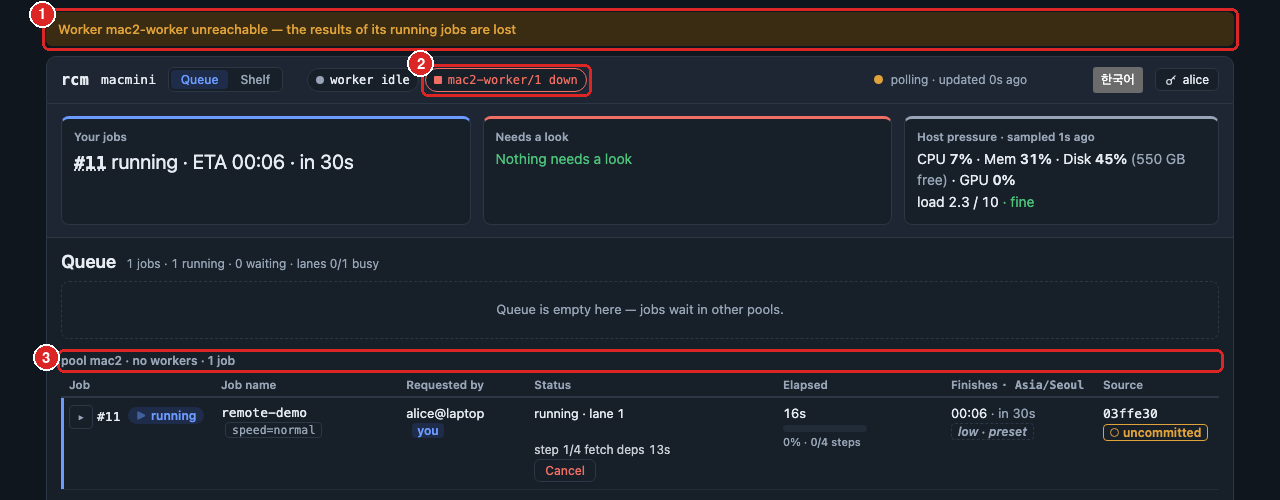
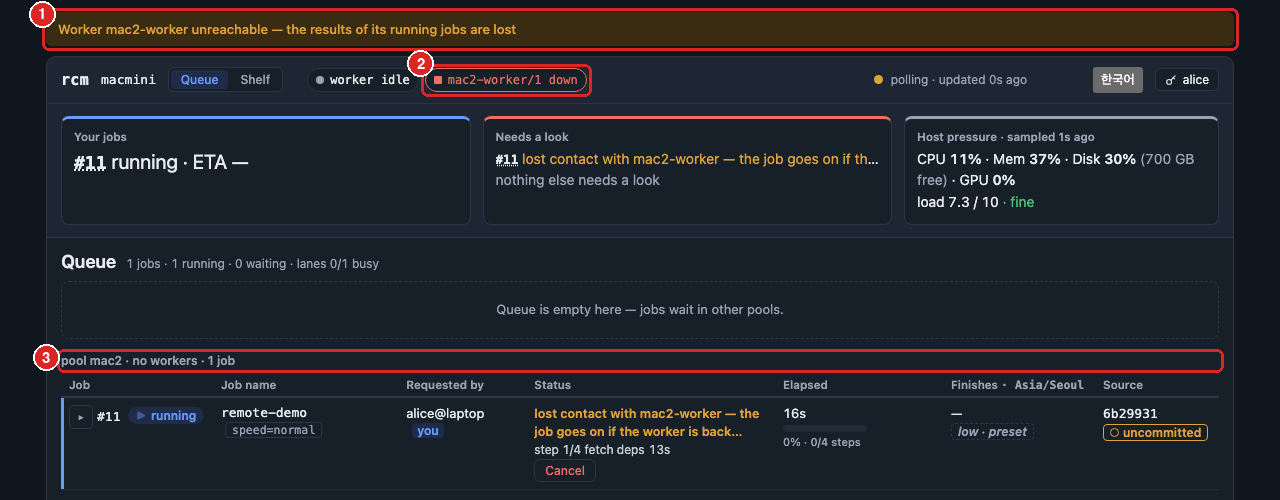
docs(usage): 워커 멈춤 스크린샷을 다시 찍고 예시를 그 장면에 맞춘다
web-worker-down.png 를 tools/screenshots 의 절차대로 다시 만들었다.
capture.py all 이 자기 버릴 서버를 띄우고 down 단계에서 mac2 풀의
워커를 죽인다. 그때 돌던 #11 이 이제 끊김 유예 중이라, 이유 칸에
「lost contact with mac2-worker — …」, 끝 시각에 「—」, 요약의
「Needs a look」 에 같은 문장이 보인다. build.py 가 다른 그림도 다시
그렸지만 이 PR 과 상관없는 변화라 되돌리고 이 장면 하나만 넣었다.
그림에는 고정 호스트명 macmini 와 가짜 사람 alice 만 있고, 경로 · IP ·
실제 이름은 없다(눈으로 확인).

두 사용 안내의 예시는 그 장면의 이름과 번호(mac2-worker, #11)로
바꿨다. 한국어 거울의 한국어 화면 문구는 이름을 뺀 꼬리만 인용한다.

테스트: tests/test_docs_m5tb.py 의 사용 안내 잠금도 같은 이름과 번호를
본다.

diff --git a/tests/test_docs_m5tb.py b/tests/test_docs_m5tb.py
@@ -358,15 +358,16 @@ def test_rl28_both_usage_guides_show_the_grace_and_the_two_wait_lines():
         raw = section(text, heading)
         body = flat(raw)
         assert re.findall(r"^(\d+)\. ", raw, re.M) == ["1", "2", "3"], heading
-        assert unreachable_text("mac2") in body, heading
+        # 이름과 잡 번호는 web-worker-down.png 장면(tools/screenshots/capture.py 의 down)과 같다
+        assert unreachable_text("mac2-worker") in body, heading
         assert "`—`" in body, heading
         assert "(configuration.md#a-lost-connection-disconnect_grace_seconds)" in body, heading
         assert "(operating.md#when-a-worker-cannot-be-reached)" in body, heading
-        assert f"#812 {unreachable_text('worker mac2')}\n" in raw, heading
-        assert "#812 worker mac2 is back — the job goes on\n" in raw, heading
+        assert f"#11 {unreachable_text('worker mac2-worker')}\n" in raw, heading
+        assert "#11 worker mac2-worker is back — the job goes on\n" in raw, heading
         assert "`lost`" in body, heading
     assert "not resumed automatically" not in usage
     assert "자동으로 재개되지도 않는다" not in usage_ko
-    assert "워커 mac2와 연락이 끊김 · 유예 시간 안에 돌아오면 이어서 진행" in flat(
+    assert "`… 연락이 끊김 · 유예 시간 안에 돌아오면 이어서 진행`" in flat(
         section(usage_ko, "워커가 멈추면")
     )

diff --git a/docs/usage.md b/docs/usage.md
@@ -844,16 +844,16 @@ yours to do. Open or close it yourself and that choice is remembered.
 3. Its pool is marked as having no worker, and jobs there wait with that reason and **no ETA** —
    nothing pretends they are about to start. A job that was running on that worker keeps running
    for the [disconnect grace](configuration.md#a-lost-connection-disconnect_grace_seconds). Its
-   reason says so in words, `lost contact with mac2 — the job goes on if the worker is back within
-   the grace period`, and its ETA is `—`. If the worker comes back in time, the job goes on where
-   it was. If the grace runs out first, the job ends `lost` with the reason in words: submit it
-   again once the worker is back.
+   reason says so in words, `lost contact with mac2-worker — the job goes on if the worker is back
+   within the grace period`, and its ETA is `—`. If the worker comes back in time, the job goes on
+   as if nothing happened. If the grace runs out first, the job ends `lost` with the reason in
+   words: submit it again once the worker is back.
 
 `rcm wait` keeps waiting through the grace and says what happened, one line each time:
 
 ```text
-#812 lost contact with worker mac2 — the job goes on if the worker is back within the grace period
-#812 worker mac2 is back — the job goes on
+#11 lost contact with worker mac2-worker — the job goes on if the worker is back within the grace period
+#11 worker mac2-worker is back — the job goes on
 ```
 
 What every screen shows, and why a job ends `lost`, is in
